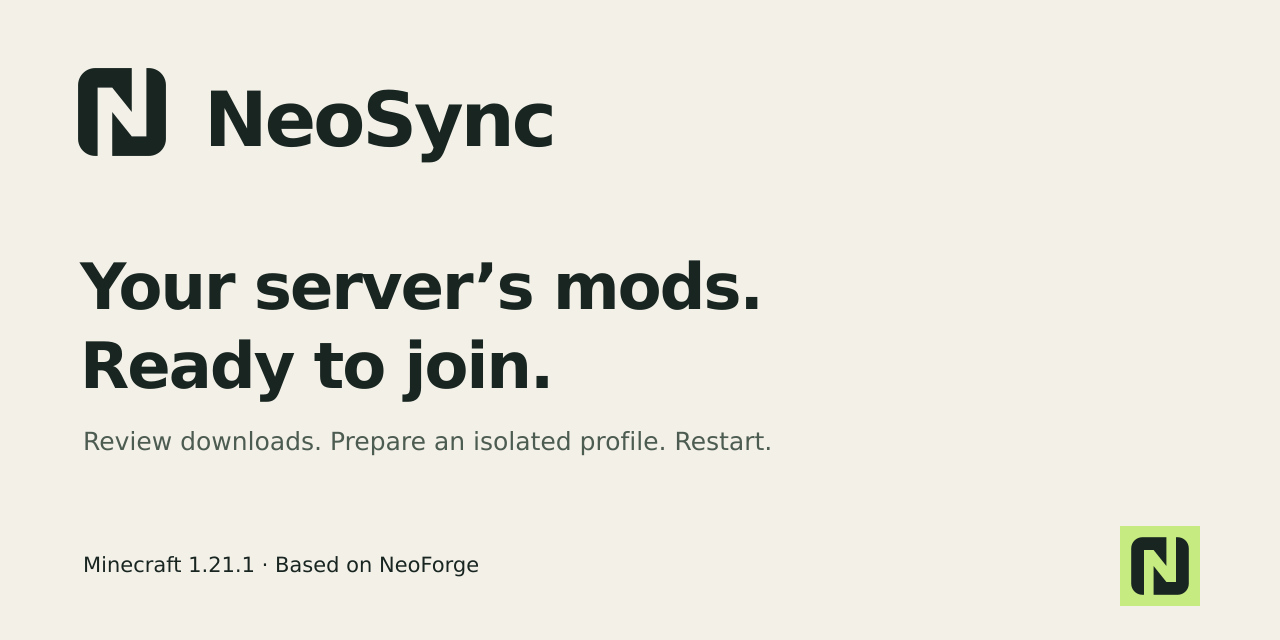
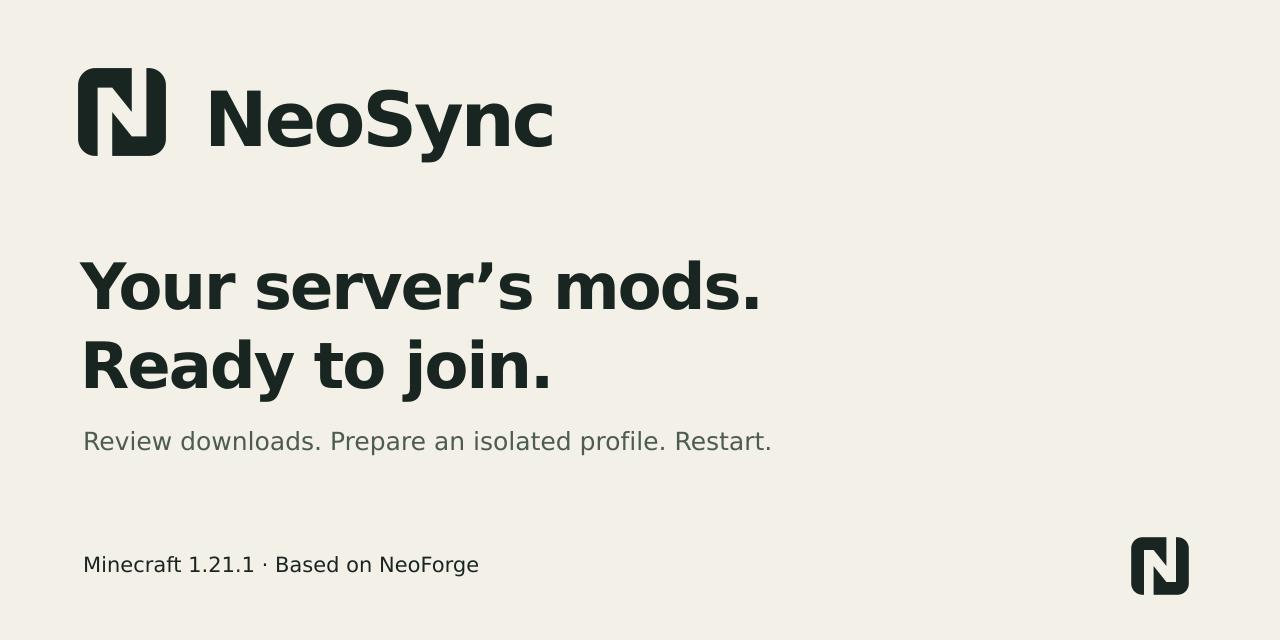
style(branding): use the ink and ivory palette

Changed region(s): [[0.875, 0.8125, 0.9375, 0.9688]]

diff --git a/docs/neosync/branding-preview.html b/docs/neosync/branding-preview.html
@@ -12,10 +12,9 @@
     h2 { margin: 32px 0 16px; font-size: 24px; }
     p { max-width: 720px; }
     a { color: inherit; text-underline-offset: 4px; }
-    .stage { display: grid; place-items: center; min-height: 330px; padding: 32px; background: #182521; color: #c6eb80; }
+    .stage { display: grid; place-items: center; min-height: 330px; padding: 32px; background: #f3f0e8; color: #182521; outline: 1px solid #a8b1a7; outline-offset: -1px; }
     .stage[data-palette="paper"] { background: #f3f0e8; color: #182521; outline: 1px solid #a8b1a7; outline-offset: -1px; }
     .stage[data-palette="reverse"] { background: #182521; color: #f3f0e8; }
-    .stage[data-palette="accent"] { background: #c6eb80; color: #182521; }
     .lockup { display: flex; align-items: center; gap: 18px; }
     .mark { display: block; width: 138px; height: 138px; flex-shrink: 0; }
     .wordmark { font-size: clamp(36px, 6vw, 64px); font-weight: bold; letter-spacing: -2.5px; }
@@ -23,7 +22,7 @@
     legend { padding: 0; margin-bottom: 8px; }
     label { cursor: pointer; }
     input { accent-color: #182521; }
-    a:focus-visible, input:focus-visible { outline: 3px solid #496a20; outline-offset: 4px; }
+    a:focus-visible, input:focus-visible { outline: 3px solid #182521; outline-offset: 4px; }
     .sizes { display: flex; align-items: end; gap: 36px; flex-wrap: wrap; padding: 24px 0; }
     figure { margin: 0; }
     figcaption { margin-top: 12px; font-size: 13px; }
@@ -47,10 +46,8 @@
     reveals an N in the negative space. The symbol works in a single color.</p>
   <fieldset id="palettes">
     <legend>Preview background and mark</legend>
-    <label><input type="radio" name="palette" value="default" checked> Ink / lime</label>
-    <label><input type="radio" name="palette" value="paper"> Ivory / ink</label>
+    <label><input type="radio" name="palette" value="default" checked> Ivory / ink</label>
     <label><input type="radio" name="palette" value="reverse"> Ink / ivory</label>
-    <label><input type="radio" name="palette" value="accent"> Lime / ink</label>
   </fieldset>
   <div class="stage" id="stage" data-palette="default">
     <div class="lockup">
@@ -77,7 +74,7 @@
     <a href="../assets/neosync-mark.svg" download>Editable SVG mark</a>
     <a href="../assets/neosync-mark.png" download>Transparent PNG · 1024 px</a>
     <a href="../assets/neosync-social.png" download>Social preview · 1280 × 640</a>
-    <a href="../assets/neosync-branding-preview.png" download>Four color applications</a>
+    <a href="../assets/neosync-branding-preview.png" download>Monochrome applications</a>
   </div>
   <footer>
     <a href="branding.md">Construction, sources, and usage rules</a> ·

diff --git a/docs/neosync/branding.md b/docs/neosync/branding.md
@@ -8,9 +8,9 @@ the secondary reading. The opening stays transparent in every color application.
 The installer, launcher profile, mod list, and repository share this identity.
 The wordmark uses DejaVu Sans Bold with compact spacing.
 
-The palette is ink `#182521`, ivory `#f3f0e8`, and lime `#c6eb80`. Use lime on ink
-for launcher icons; use ink on ivory for documentation. Color supplements the
-silhouette; it is not needed to distinguish its two pieces. Keep the identity
+The palette is ink `#182521` and ivory `#f3f0e8`. Use ink on ivory for launcher
+icons, installer graphics, and documentation. An ivory-on-ink version is available
+for dark backgrounds. The two pieces use the same color. Keep the identity
 flat and legible; avoid mascots, gradients, textures, and decorative effects.
 The previous violet/mint mark remains part of historical release binaries.
 
@@ -24,7 +24,7 @@ The previous violet/mint mark remains part of historical release binaries.
 | `docs/assets/neosync-installer.svg` | Editable wordmark and installer banner. |
 | `docs/assets/neosync-installer.png` | Installer banner. |
 | `docs/assets/neosync-social.svg`, `neosync-social.png` | Editable 1280 × 640 GitHub social preview and rendered upload. |
-| `docs/assets/neosync-branding-preview.svg`, `neosync-branding-preview.png` | Four flat color applications and small-size review. |
+| `docs/assets/neosync-branding-preview.svg`, `neosync-branding-preview.png` | Two monochrome applications and small-size review. |
 | `src/main/resources/neosync_logo.png` | Mod-list banner, generated from the same wordmark. |
 
 After editing the SVGs, run `scripts/render_branding.sh` with librsvg, ImageMagick,
@@ -35,8 +35,8 @@ sizes before publishing.
 Keep at least 14% of the mark canvas clear around the shape. Do not close the
 shared opening, add outlines, or stretch either element independently. The 16 px
 and 32 px icons are rendered from the same source and must retain the opening.
-The [interactive preview](branding-preview.html) shows the mark on light, dark,
-and accent backgrounds, with downloadable files and actual-size samples.
+The [interactive preview](branding-preview.html) shows the mark on light and dark
+backgrounds, with downloadable files and actual-size samples.
 
 ## Design references
 

diff --git a/CHANGELOG.md b/CHANGELOG.md
@@ -22,8 +22,8 @@ installing. Published artifacts and tags remain immutable.
   dedicated-server self-test using Java 21 and the Windows Gradle wrapper.
 - Corrected the historical alpha.4 release link and narrowed Python ignore rules.
 - Replaced the violet/mint mark with two interlocking geometric elements that
-  reveal an N in negative space, using an ink, ivory,
-  and lime palette across icons, installer graphics, and documentation. Added
+  reveal an N in negative space, using an ink and ivory
+  palette across icons, installer graphics, and documentation. Added
   transparent exports and an interactive preview; published assets are unchanged.
 
 ### Fixed
